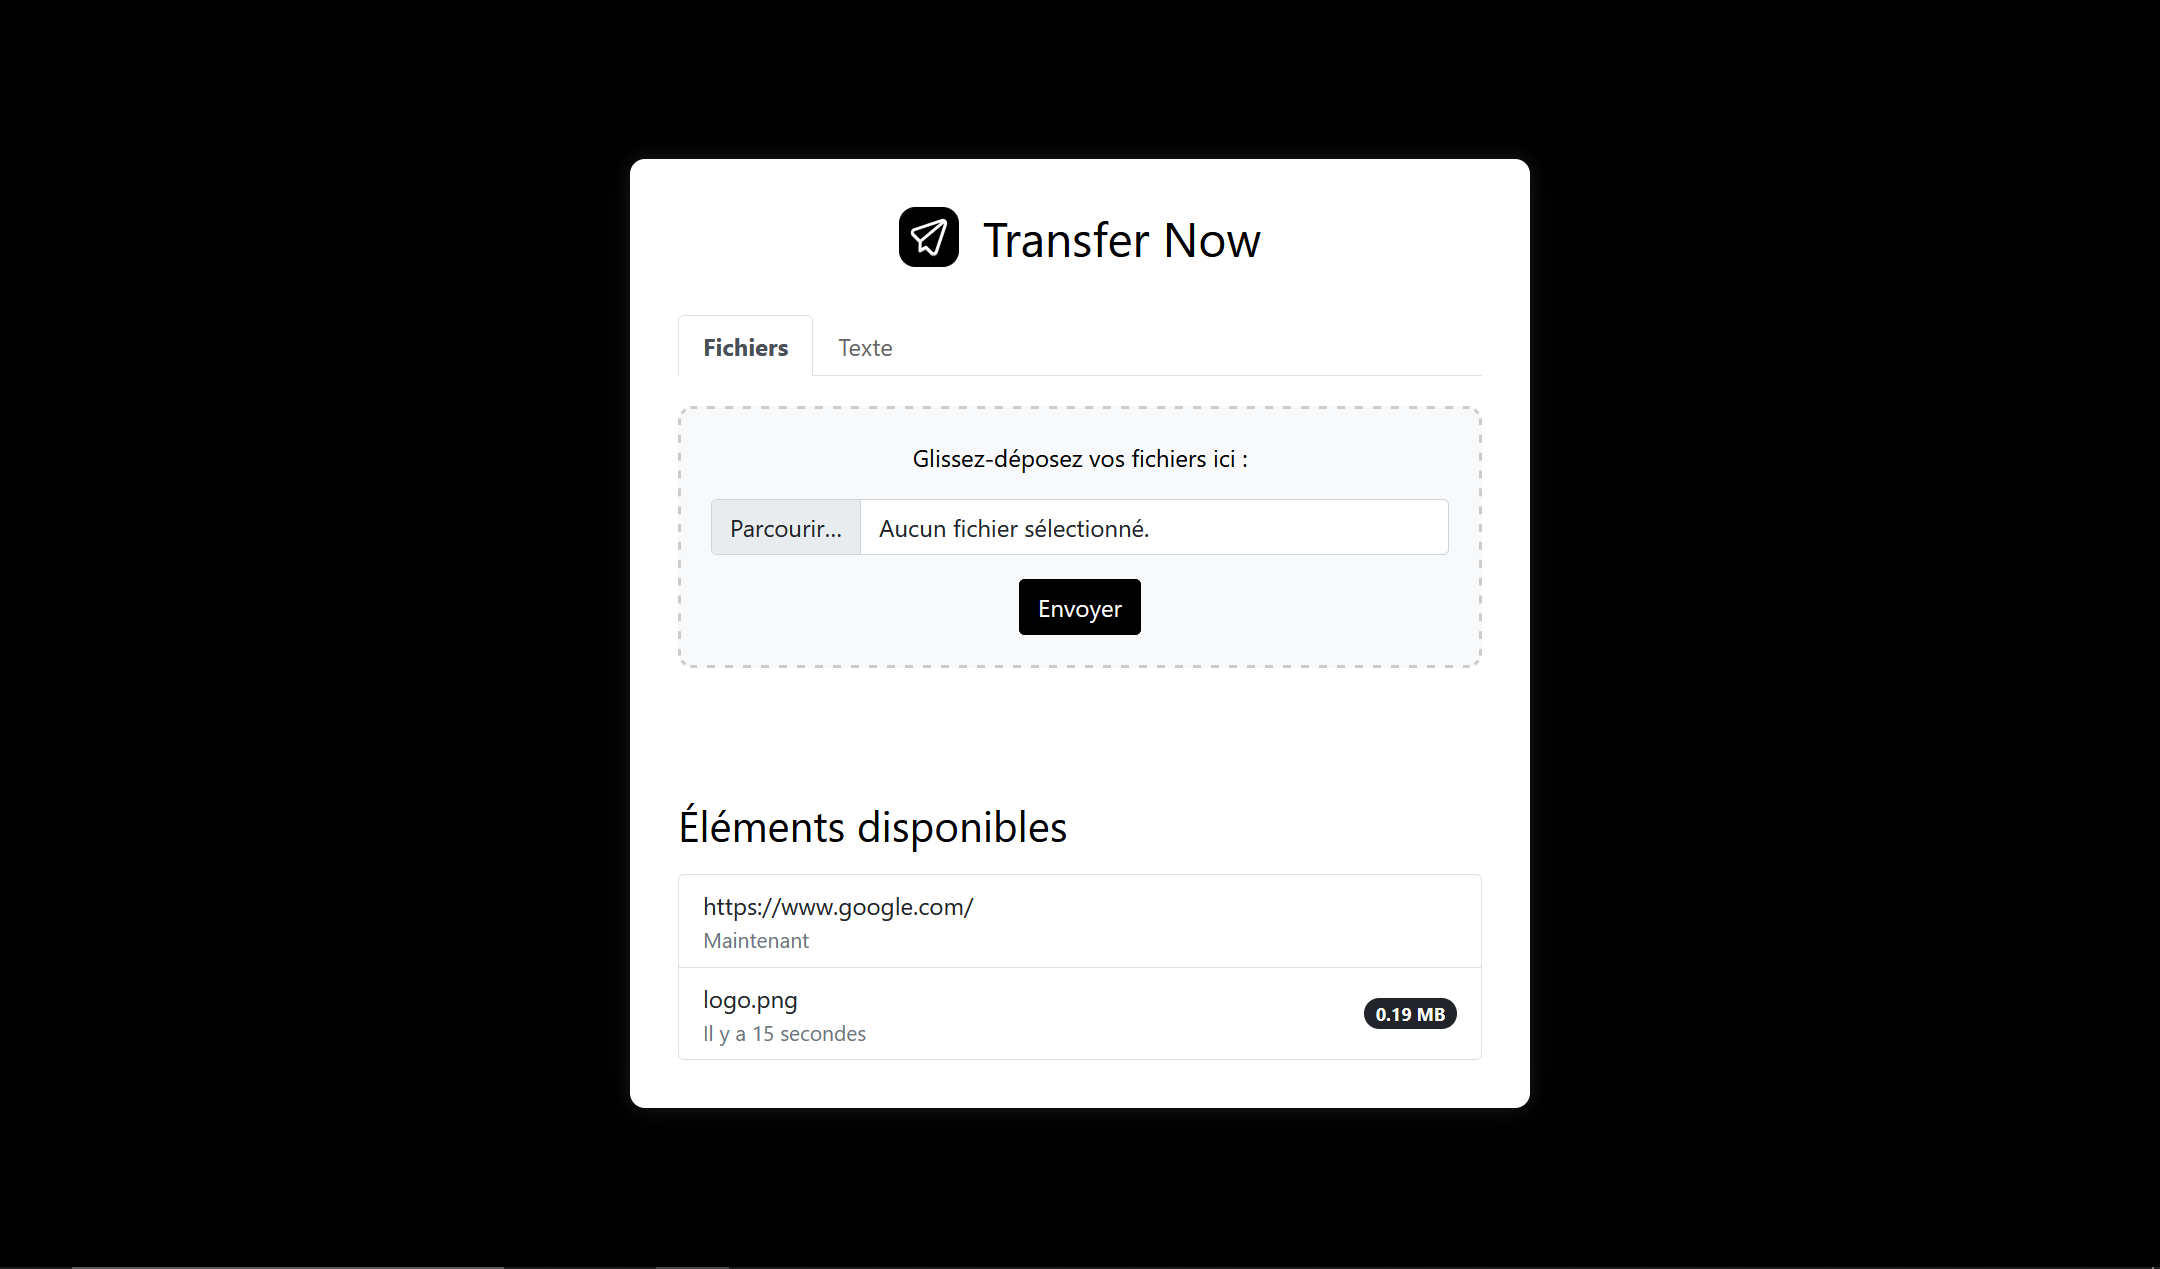
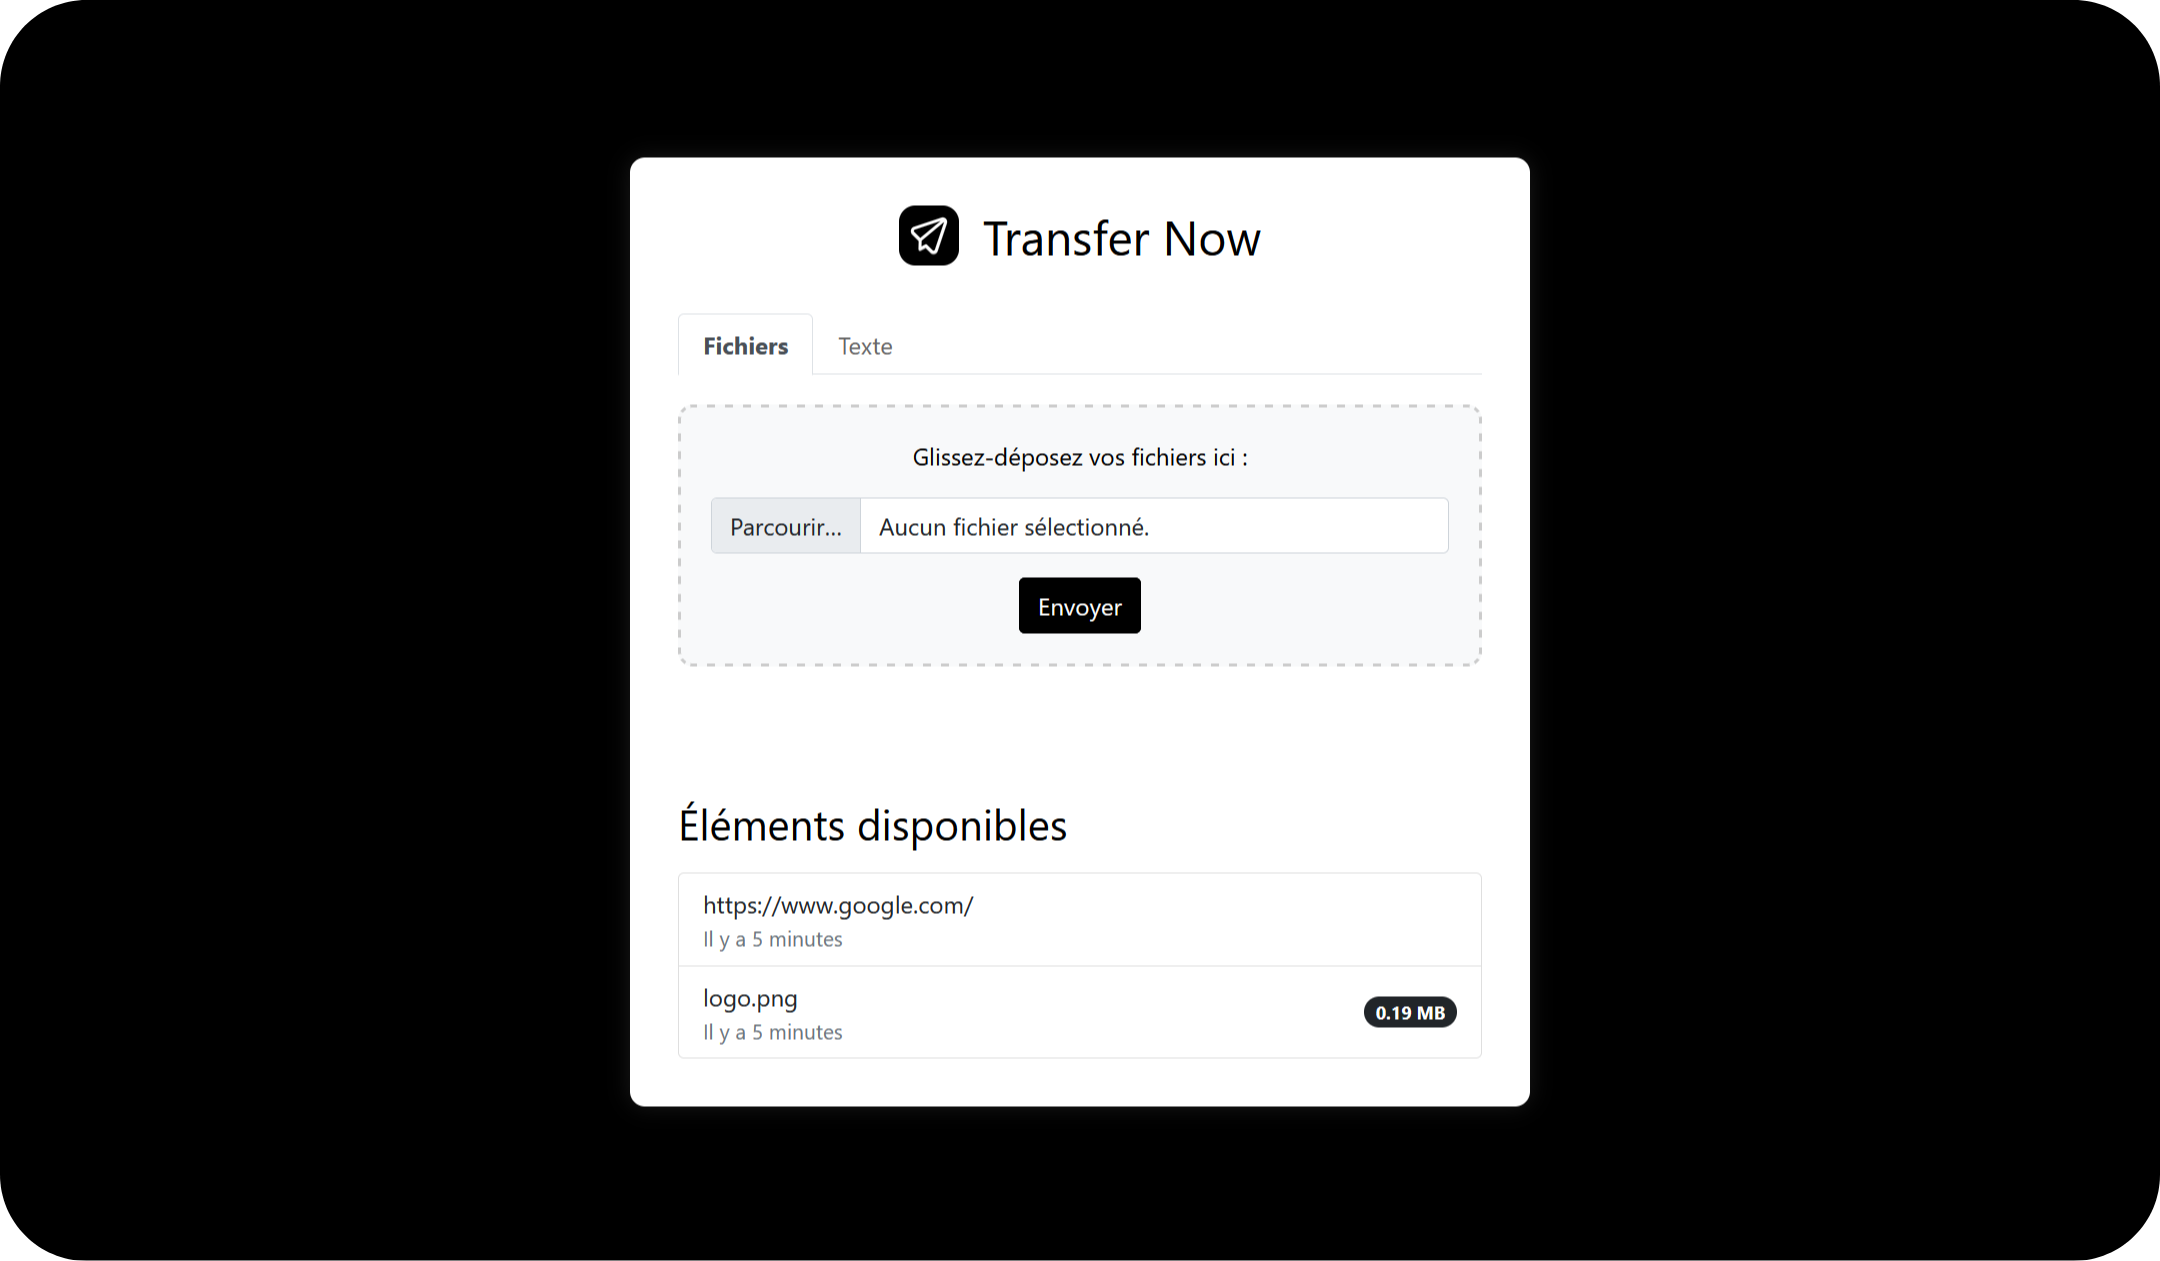
docs: mettre à jour l'image d'exemple du README

diff --git a/README.md b/README.md
@@ -7,7 +7,7 @@
 Cet outil vous permet de transférer rapidement des éléments de votre téléphone à votre ordinateur, ou inversement.
 
 <p align="center">
-    <img src="https://tnow.hlly.fr/assets/example.png" width="100%" alt="Example" style="border-radius: 30px;">
+    <img src="https://tnow.hlly.fr/assets/example.png" width="100%" alt="Example">
 </p>
 
 ## Code PIN
